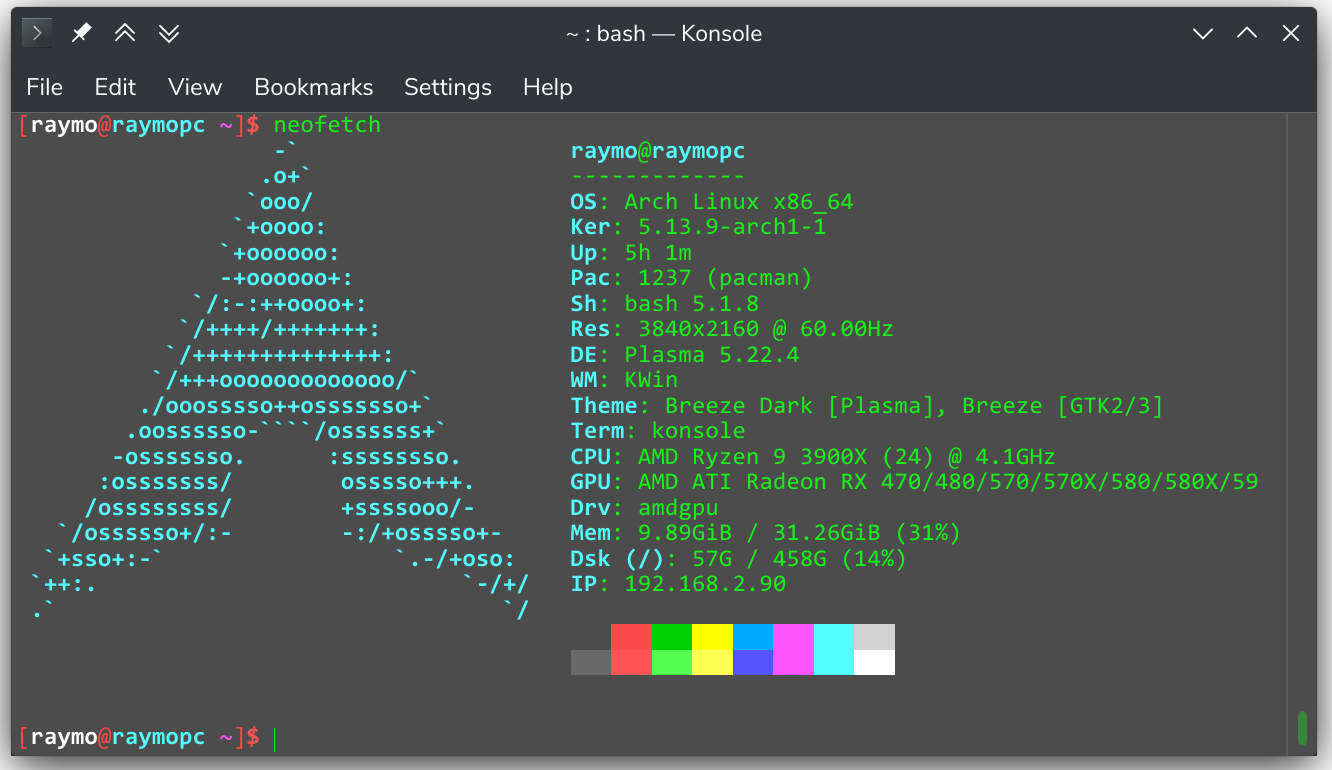
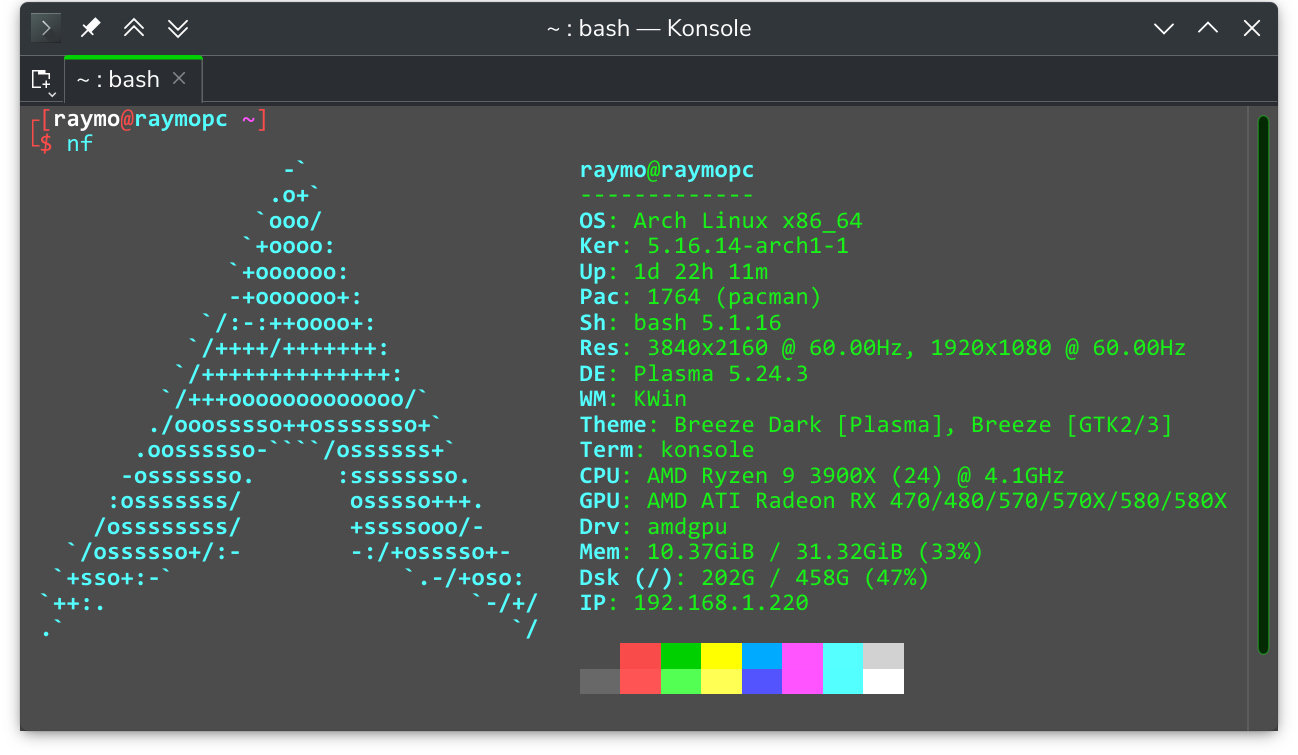
Update website

Changed region(s): [[0.0, 0.0, 1.0, 1.0]]

diff --git a/index.html b/index.html
@@ -129,7 +129,7 @@
 					</div>
 					<div class="card-box">
 						<h4 class="card-title py-3 mbr-fonts-style display-5">Playstation Intern</h4>
-						<p class="mbr-text mbr-fonts-style display-7">I'm currently doing a Software Development in Test internship at Sony Playstation. Check out my <a href="resume.pdf" target="_blank" class="mbr-bold text-secondary">Résumé</a> for my work experience.<br></p>
+						<p class="mbr-text mbr-fonts-style display-7">I'm doing a Software Development internship at Sony Interactive Entertainment. Check out my <a href="resume.pdf" target="_blank" class="mbr-bold text-secondary">Résumé</a> for my full work experience.<br></p>
 					</div>
 				</div>
 				<div class="card p-3 col-12 col-md-6 col-lg-4">
@@ -152,79 +152,6 @@
 							UW CS</h4>
 						<p class="mbr-text mbr-fonts-style display-7">I'm studying Honours Computer Science with Co-op at the University of Waterloo, Class of 2025</p>
 					</div>
-				</div>
-			</div>
-		</div>
-	</section>
-	<section class="header1 cid-rma5adgn69" id="header16-a">
-		<div class="container">
-			<div class="row justify-content-md-center">
-				<div class="col-md-10 align-center">
-					<h1 class="mbr-section-title mbr-bold pb-3 mbr-fonts-style display-2">My life goal is to help people with code.</h1>
-				</div>
-			</div>
-		</div>
-	</section>
-	<section class="features2 cid-rma57Bbtru" id="features2-9">
-		<div class="container">
-			<div class="media-container-row">
-				<div class="card p-3 col-12 col-md-6">
-					<div class="card-wrapper">
-						<div class="card-img">
-							<img src="assets/images/edgeprim.png" alt="EdgePrim Inc. Logo" title="EdgePrim Inc. Logo">
-						</div>
-						<div class="card-box ">
-							<h4 class="card-title pb-3 mbr-fonts-style display-7">
-								I'm the founder and CEO of <a href="https://edgeprim.com" target="_blank" class="text-secondary">EdgePrim Inc</a>, a software startup that connects businesses to the internet</h4>
-						</div>
-					</div>
-				</div>
-				<div class="card p-3 col-12 col-md-6">
-					<div class="card-wrapper">
-						<div class="card-img">
-							<a href="https://youthhax.com"><img src="assets/images/yh2019.jpg" alt="YouthHax2019" title="YouthHax2019"></a>
-						</div>
-						<div class="card-box">
-							<h4 class="card-title pb-3 mbr-fonts-style display-7">I organize <a href="https://youthhax.com" target="_blank" class="text-secondary">YouthHax</a>, an annual hackathon and the first in Markham</h4>
-						</div>
-					</div>
-				</div>
-			</div>
-		</div>
-	</section>
-	<section class="features2 cid-rma6MwyOKx" id="features2-b">
-		<div class="container">
-			<div class="media-container-row">
-				<div class="card p-3 col-12 col-md-6">
-					<div class="card-wrapper">
-						<div class="card-img">
-							<img src="assets/images/neofetch.png" alt="Arch Linux" title="Arch Linux">
-						</div>
-						<div class="card-box">
-							<h4 class="card-title pb-3 mbr-fonts-style display-7">I develop and maintain many GitHub and AUR projects like <a href="https://github.com/Raymo111/i3lock-color" target="_blank" class="text-secondary">i3lock-color</a>,
-								the world's most popular non-default computer lockscreen</h4>
-						</div>
-					</div>
-				</div>
-				<div class="card p-3 col-12 col-md-6">
-					<div class="card-wrapper">
-						<div class="card-img">
-							<img src="assets/images/seminar.jpg" alt="&quot;How to Enjoy Programming&quot; Seminar" title="Seminar">
-						</div>
-						<div class="card-box">
-							<h4 class="card-title pb-3 mbr-fonts-style display-7">I've inspired many students to learn to code through my seminars, and I have a set of Linux tutorials on <a href="https://gist.github.com/Raymo111" target="_blank"
-									class="text-secondary">Gist</a></h4>
-						</div>
-					</div>
-				</div>
-			</div>
-		</div>
-	</section>
-	<section class="header1 cid-rm9ZpThxgB" id="header16-6">
-		<div class="container">
-			<div class="row justify-content-md-center">
-				<div class="col-md-10 align-center">
-					<h1 class="mbr-section-title mbr-bold pb-3 mbr-fonts-style display-2">UW Clubs</h1>
 				</div>
 			</div>
 		</div>
@@ -256,6 +183,79 @@
 			</div>
 		</div>
 	</section>
+	<section class="header1 cid-rma5adgn69" id="header16-a">
+		<div class="container">
+			<div class="row justify-content-md-center">
+				<div class="col-md-10 align-center">
+					<h1 class="mbr-section-title mbr-bold pb-3 mbr-fonts-style display-2">My life goal is to help people with code.</h1>
+				</div>
+			</div>
+		</div>
+	</section>
+	<section class="features2 cid-rma57Bbtru" id="features2-9">
+		<div class="container">
+			<div class="media-container-row">
+				<div class="card p-3 col-12 col-md-6">
+					<div class="card-wrapper">
+						<div class="card-img">
+							<a href="https://edgeprim.com" target="_blank"><img src="assets/images/edgeprim.png" alt="EdgePrim Inc. Logo" title="EdgePrim Inc. Logo"></a>
+						</div>
+						<div class="card-box ">
+							<h4 class="card-title pb-3 mbr-fonts-style display-7">
+								I founded <a href="https://edgeprim.com" target="_blank" class="text-secondary">EdgePrim Inc</a>, a software startup that connects businesses to the internet</h4>
+						</div>
+					</div>
+				</div>
+				<div class="card p-3 col-12 col-md-6">
+					<div class="card-wrapper">
+						<div class="card-img">
+							<a href="i3lock-color"><img src="assets/images/i3lock-color.png" alt="i3lock-color in action" title="i3lock-color in action"></a>
+						</div>
+						<div class="card-box">
+							<h4 class="card-title pb-3 mbr-fonts-style display-7">I develop and maintain many GitHub and AUR projects like <a href="https://github.com/Raymo111/i3lock-color" target="_blank" class="text-secondary">i3lock-color</a>,
+								the world's most popular non-default computer lockscreen</h4>
+						</div>
+					</div>
+				</div>
+			</div>
+		</div>
+	</section>
+	<section class="features2 cid-rma6MwyOKx" id="features2-b">
+		<div class="container">
+			<div class="media-container-row">
+				<div class="card p-3 col-12 col-md-6">
+					<div class="card-wrapper">
+						<div class="card-img">
+							<a href="https://youthhax.com" target="_blank"><img src="assets/images/yh2019.jpg" alt="Github workshop at YouthHax2019" title="Github workshop at YouthHax2019"></a>
+						</div>
+						<div class="card-box">
+							<h4 class="card-title pb-3 mbr-fonts-style display-7">I've inspired many students to learn to code through my seminars, and I host an expanding set of Linux tutorials on <a href="https://gist.github.com/Raymo111" target="_blank"
+									class="text-secondary">Gist</a></h4>
+						</div>
+					</div>
+				</div>
+				<div class="card p-3 col-12 col-md-6">
+					<div class="card-wrapper">
+						<div class="card-img">
+							<img src="assets/images/neofetch.png" alt="Neofetch showing Arch Linux" title="Neofetch showing Arch Linux">
+						</div>
+						<div class="card-box">
+							<h4 class="card-title pb-3 mbr-fonts-style display-7">#btwiuseArch</h4>
+						</div>
+					</div>
+				</div>
+			</div>
+		</div>
+	</section>
+	<!-- <section class="header1 cid-rm9ZpThxgB" id="header16-6">
+		<div class="container">
+			<div class="row justify-content-md-center">
+				<div class="col-md-10 align-center">
+					<h1 class="mbr-section-title mbr-bold pb-3 mbr-fonts-style display-2">UW Clubs</h1>
+				</div>
+			</div>
+		</div>
+	</section> -->
 	<!-- <section class="features15 cid-rGIokIdEwj" id="features15-b">
 		<div class="container">
 			<h1 class="mbr-section-title mbr-bold pb-3 mbr-fonts-style display-2">UW Clubs</h1>
